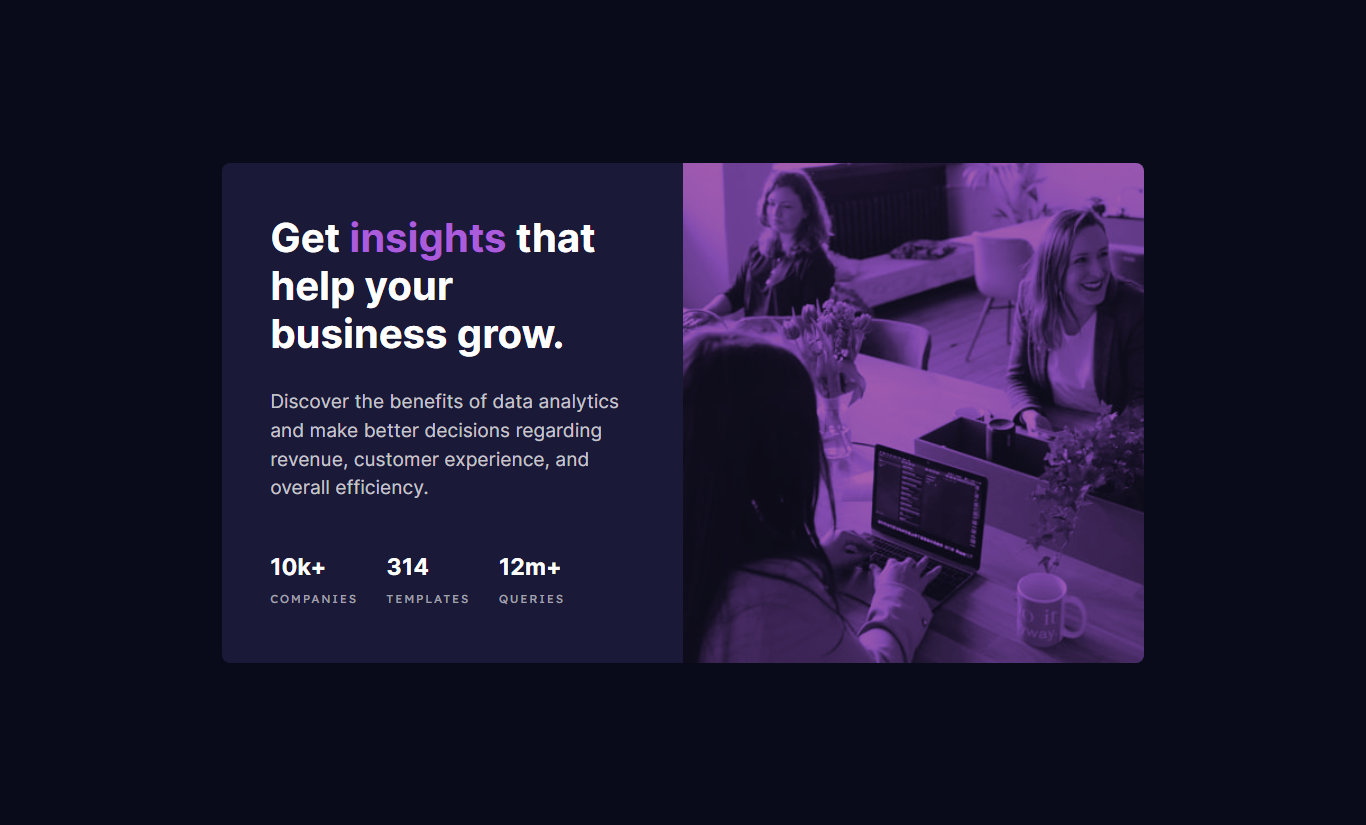
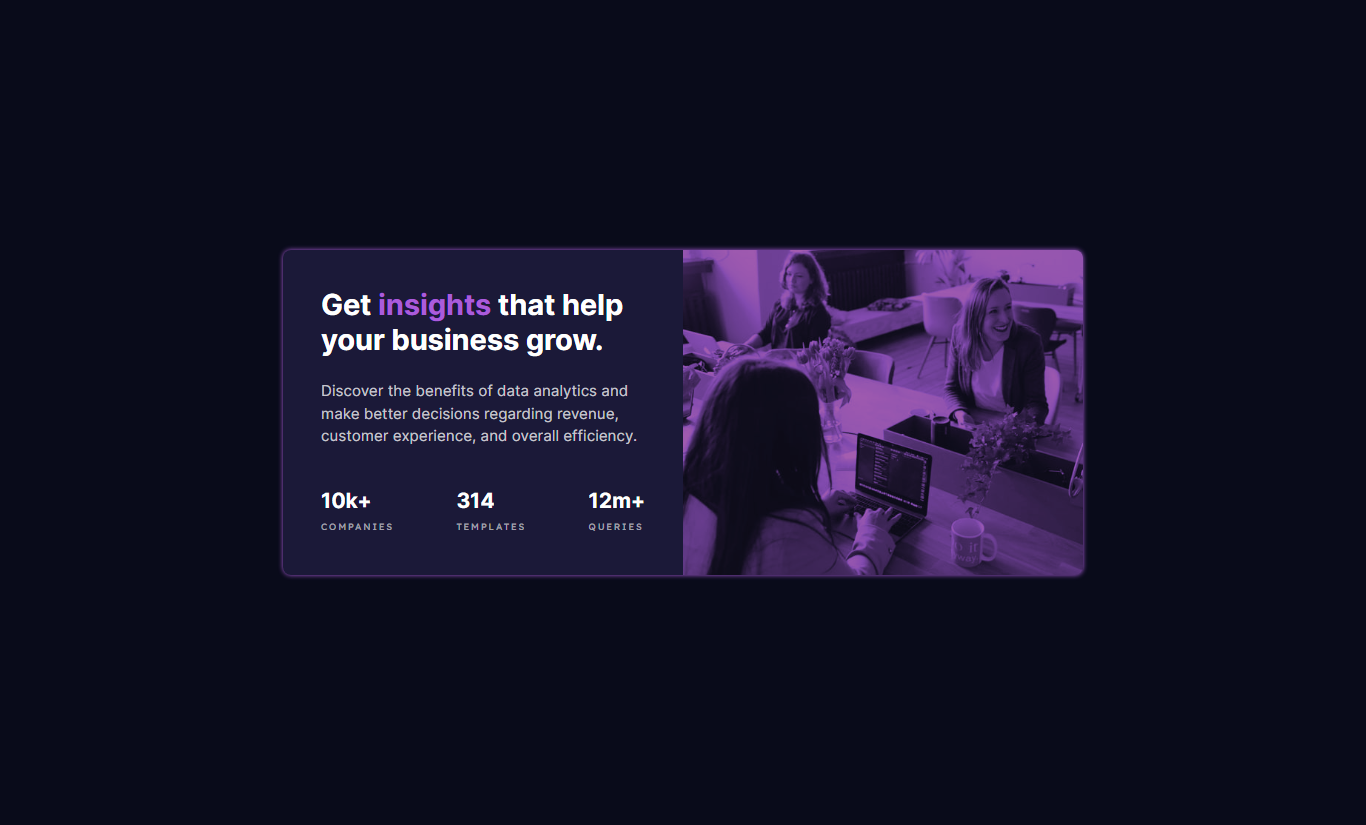
sizing and minor changes (stats-preview)

Changed region(s): [[0.1537, 0.1818, 0.8609, 0.8182], [0.4305, 0.5758, 0.4612, 0.6667]]

diff --git a/stats-preview-card-component-main/src/scss/style.scss b/stats-preview-card-component-main/src/scss/style.scss
@@ -28,6 +28,9 @@ body {
 }
 
 body {
+    @media (min-width: 64em) {
+        font-size: 0.95rem !important;
+    }
     display: grid;
     place-items: center;
     font-family: "Inter", sans-serif;
@@ -44,11 +47,17 @@ body {
 }
 
 h1 {
+    @media (min-width: 64em) {
+        font-size: 1.8rem !important;
+    }
     @extend %headers;
     font-size: clamp(1.5rem, 32vw - 6rem, 2.5rem);
 }
 
 h2 {
+    @media (min-width: 64em) {
+        font-size: 1.3rem !important;
+    }
     @extend %headers;
     font-size: clamp(1.15rem, 9.6vw - 1.1rem, 1.45rem);
 }
@@ -69,13 +78,15 @@ article.stats-preview-card-component {
     @media (min-width: 64em) {
         flex-direction: row;
         max-inline-size: initial;
-        inline-size: min(90%, 48em);
-        block-size: 500px;
+        inline-size: min(90%, 800px);
+        block-size: 325px;
         text-align: start;
+        box-shadow: 0 0 5px 0 var(--c-primary-accent);
         > * {
             inline-size: 50%;
         }
     }
+    transition: box-shadow 1s ease-in-out;
     margin: auto;
     display: flex;
     flex-direction: column;
@@ -101,7 +112,7 @@ article.stats-preview-card-component {
         }
         .content-side {
             @media (min-width: 64em) {
-                padding: 3.5em 2.5em;
+                margin: 2em 1em;
             }
             display: flex;
             flex-direction: column;
@@ -118,6 +129,7 @@ article.stats-preview-card-component {
                 .stats {
                     @media (min-width: 64em) {
                         flex-direction: row;
+                        justify-content: space-between;
                     }
                     margin-block-start: 1.2em;
                     display: flex;

diff --git a/stats-preview-card-component-main/dist/css/style.css b/stats-preview-card-component-main/dist/css/style.css
@@ -39,6 +39,11 @@ body {
   color: var(--c-neutral-main-paragraph);
   text-align: center;
 }
+@media (min-width: 64em) {
+  body {
+    font-size: 0.95rem !important;
+  }
+}
 
 h2, h1 {
   line-height: 1.2;
@@ -48,9 +53,19 @@ h2, h1 {
 h1 {
   font-size: clamp(1.5rem, 32vw - 6rem, 2.5rem);
 }
+@media (min-width: 64em) {
+  h1 {
+    font-size: 1.8rem !important;
+  }
+}
 
 h2 {
   font-size: clamp(1.15rem, 9.6vw - 1.1rem, 1.45rem);
+}
+@media (min-width: 64em) {
+  h2 {
+    font-size: 1.3rem !important;
+  }
 }
 
 a {
@@ -66,6 +81,7 @@ main {
 }
 
 article.stats-preview-card-component {
+  transition: box-shadow 1s ease-in-out;
   margin: auto;
   display: flex;
   flex-direction: column;
@@ -77,9 +93,10 @@ article.stats-preview-card-component {
   article.stats-preview-card-component {
     flex-direction: row;
     max-inline-size: initial;
-    inline-size: min(90%, 48em);
-    block-size: 500px;
+    inline-size: min(90%, 800px);
+    block-size: 325px;
     text-align: start;
+    box-shadow: 0 0 5px 0 var(--c-primary-accent);
   }
   article.stats-preview-card-component > * {
     inline-size: 50%;
@@ -111,7 +128,7 @@ article.stats-preview-card-component > .content-side {
 }
 @media (min-width: 64em) {
   article.stats-preview-card-component > .content-side {
-    padding: 3.5em 2.5em;
+    margin: 2em 1em;
   }
 }
 article.stats-preview-card-component > .content-side > * {
@@ -131,6 +148,7 @@ article.stats-preview-card-component > .content-side > .stats {
 @media (min-width: 64em) {
   article.stats-preview-card-component > .content-side > .stats {
     flex-direction: row;
+    justify-content: space-between;
   }
 }
 article.stats-preview-card-component > .content-side > .stats > .stats-items > * {
